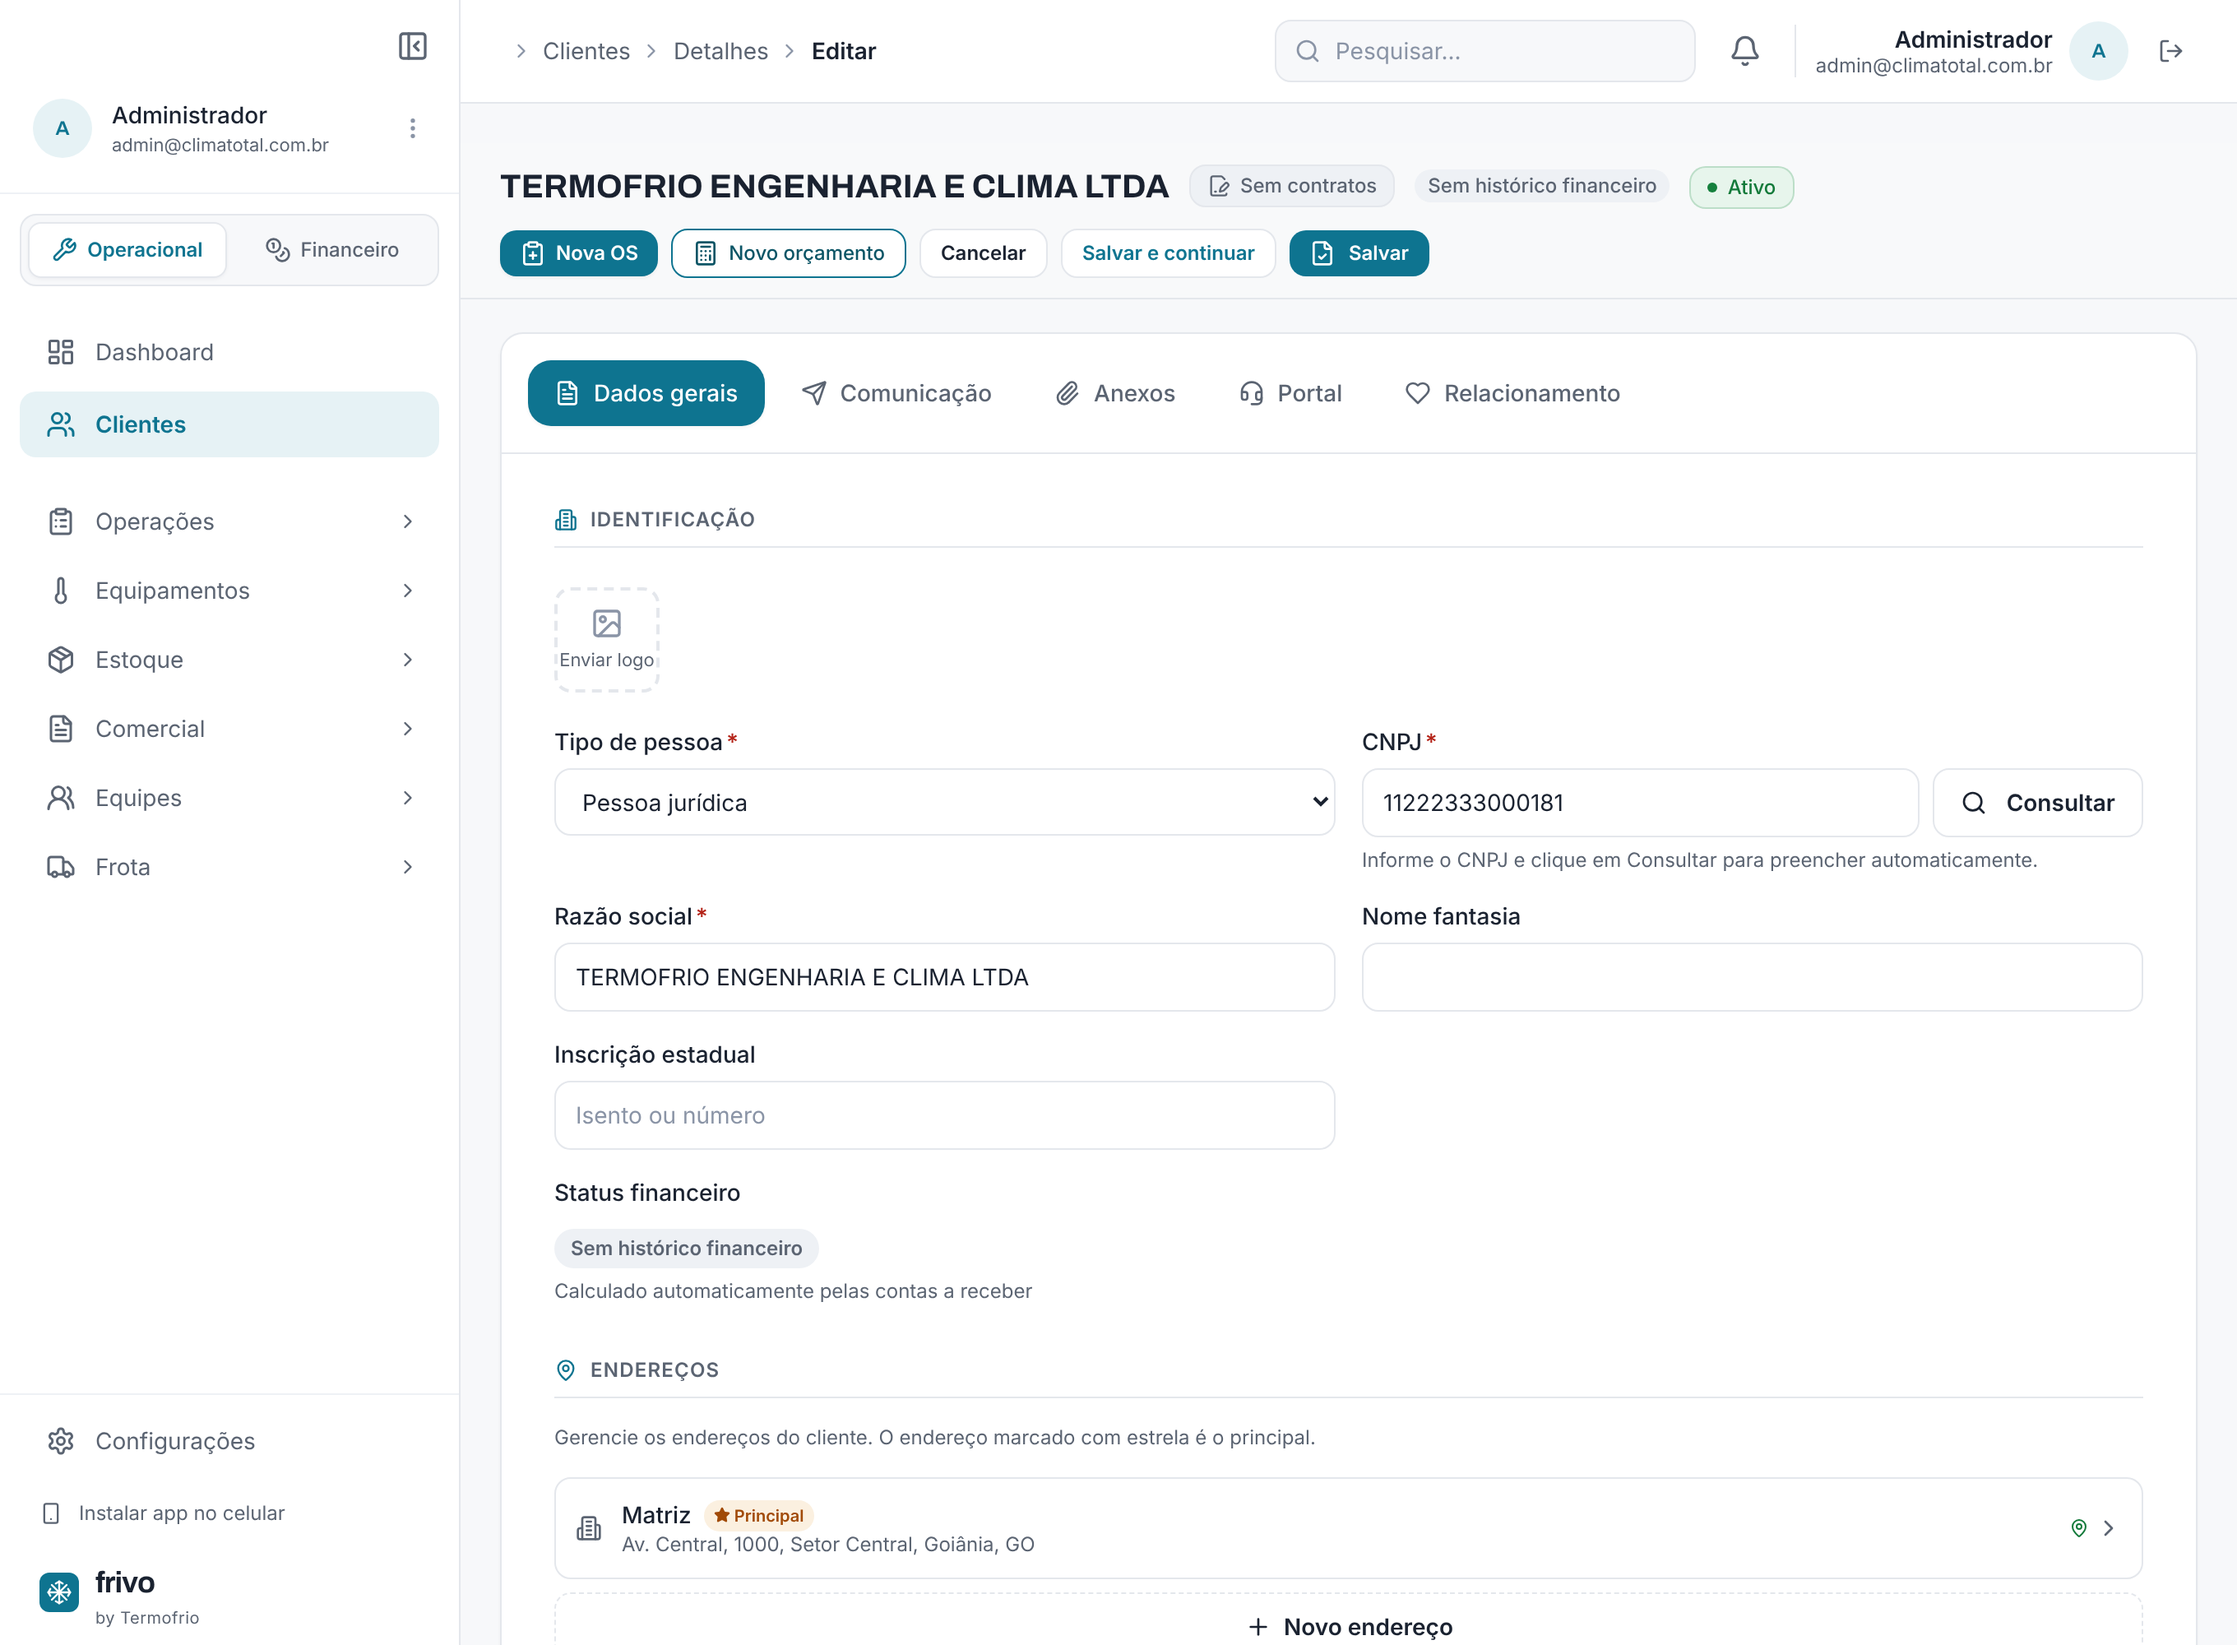
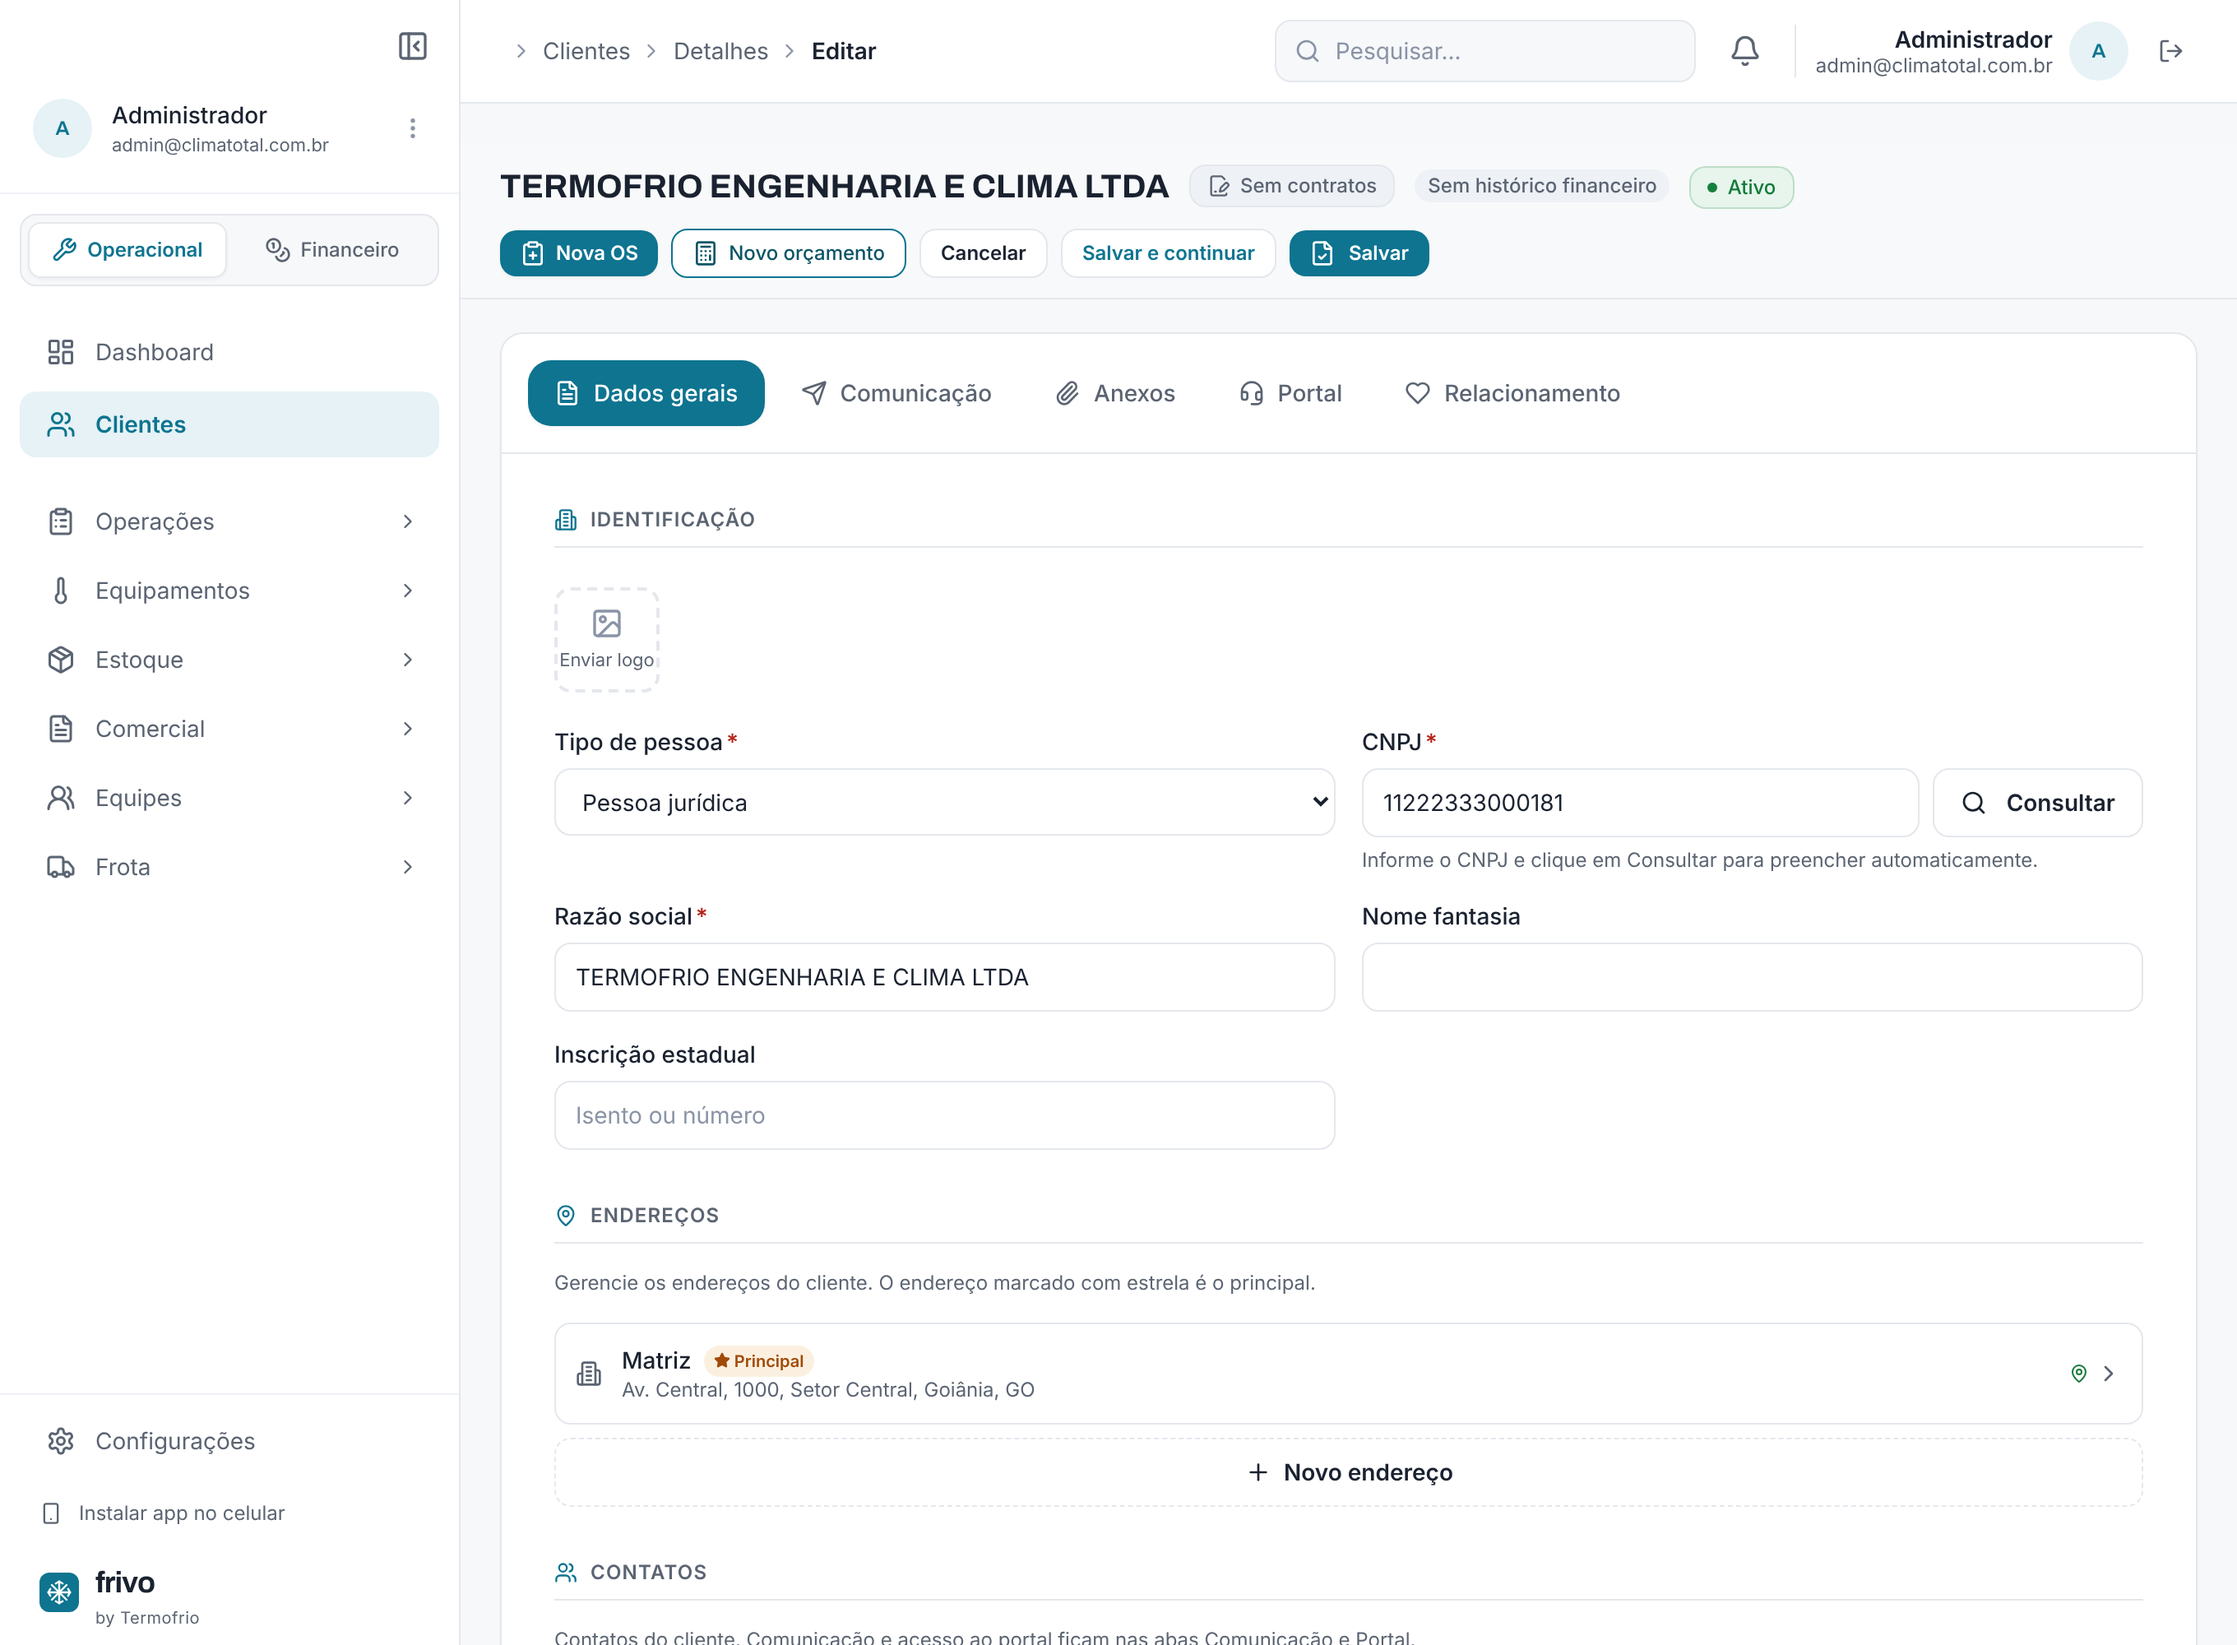
Cliente › Identificação: status financeiro só no topo e aviso de CNPJ discreto
Ajustes finos na aba Dados gerais:
- O status financeiro fica só no cabeçalho (selo ao lado do nome); removida a linha
  repetida no corpo da seção Identificação (e o link "A receber (30 dias)" que vinha junto).
- O aviso "Dados encontrados na Receita Federal" deixou de ser um painel: virou uma linha
  discreta em verde logo acima do campo de CNPJ (data-cnpj-encontrado), sem ocupar espaço.

Sem mudança de schema. Testes: cliente-cnpj-autofill-ui passa a conferir o aviso discreto
(data-cnpj-encontrado, sem o painel antigo) e que o status financeiro não se repete no corpo;
ratchet, ux2-cliente e a suíte completa (PG real) verdes.

Claude-Session: https://claude.ai/code/session_01NogQSnn1DhMU16avoGcmWJ

Changed region(s): [[0.25, 0.713, 0.6562, 0.961], [0.25, 0.961, 0.6562, 1.0]]

diff --git a/components/forms/cliente-form.tsx b/components/forms/cliente-form.tsx
@@ -26,7 +26,6 @@ import { PortalContatos } from "@/components/forms/portal-contatos";
 import { InteracoesManager } from "@/components/forms/interacoes-manager";
 import { ToggleSwitch } from "@/components/ui/toggle-switch";
 import { usePermissoes } from "@/components/providers/permissoes-provider";
-import { formatarMoeda } from "@/lib/utils";
 import { cn } from "@/lib/utils";
 import {
   LABELS_STATUS_FINANCEIRO_CALC, COR_STATUS_FINANCEIRO_CALC, type StatusFinanceiroCalc,
@@ -36,9 +35,9 @@ import { SeletorCadastro, useCadastro } from "@/components/cadastros/seletor-cad
 import type { Cliente, Tecnico, Unidade, Configuracao, ContatoCliente } from "@prisma/client";
 import type { ContatoSeguro } from "@/lib/contato-cliente";
 import {
-  Search, Loader2, FileCheck, Lock, Pencil, X, AlertCircle,
+  Search, Loader2, FileCheck, Lock, Pencil, AlertCircle,
   FileText, MapPin, Heart, Headset,
-  Building2, DollarSign, Users, Paperclip, Star, MessageSquare, Globe, ArrowUpRight, Send, FileSignature,
+  Building2, DollarSign, Users, Paperclip, Star, MessageSquare, Globe, Send, FileSignature,
   ClipboardPlus, Calculator,
 } from "lucide-react";
 import { AlertaPerdasCliente, type PerdasCliente } from "@/components/financeiro/alerta-perdas-cliente";
@@ -78,7 +77,7 @@ function Painel({ ativo, children }: { ativo: boolean; children: React.ReactNode
   return <div className={cn("space-y-8", !ativo && "hidden")}>{children}</div>;
 }
 
-export function ClienteForm({ initialData, statusFinanceiroCalc, totalProximos30Dias, perdas12m }: ClienteFormProps) {
+export function ClienteForm({ initialData, statusFinanceiroCalc, perdas12m }: ClienteFormProps) {
   const router = useRouter();
   const isEditing = !!initialData;
   // RBAC (o servidor também valida): sem permissão de salvar, a ficha abre somente leitura.
@@ -90,7 +89,6 @@ export function ClienteForm({ initialData, statusFinanceiroCalc, totalProximos30
   const podeNovaOs = pode("ordens", "criar");
   const podeNovoOrcamento = pode("orcamentos", "criar");
   const statusCalc: StatusFinanceiroCalc = statusFinanceiroCalc ?? "SEM_HISTORICO";
-  const totalProx = totalProximos30Dias ?? 0;
   const qtdContratosAtivos = initialData?._count?.contratos ?? 0;
   const [erroGlobal, setErroGlobal] = useState("");
   const [buscandoCnpj, setBuscandoCnpj] = useState(false);
@@ -496,33 +494,27 @@ export function ClienteForm({ initialData, statusFinanceiroCalc, totalProximos30
                 <option value="FISICA">Pessoa física</option>
               </Select>
             </FormField>
-            <FormField label={tipoPessoa === "FISICA" ? "CPF" : "CNPJ"} required error={errors.cpfCnpj?.message} hint={tipoPessoa === "JURIDICA" ? "Informe o CNPJ e clique em Consultar para preencher automaticamente." : undefined}>
-              <div className="flex gap-2">
-                <Input {...register("cpfCnpj")} placeholder={tipoPessoa === "FISICA" ? "000.000.000-00" : "00.000.000/0001-00"} error={!!errors.cpfCnpj} valido={!errors.cpfCnpj && !!cnpjInfo} className="flex-1" />
-                {tipoPessoa === "JURIDICA" && (
-                  <Button type="button" variant="secondary" loading={buscandoCnpj} onClick={buscarCnpj} className="shrink-0">
-                    {!buscandoCnpj && <Search className="w-4 h-4" />}
-                    <span className="hidden sm:inline ml-1">Consultar</span>
-                  </Button>
+            <FormField label={tipoPessoa === "FISICA" ? "CPF" : "CNPJ"} required error={errors.cpfCnpj?.message} hint={tipoPessoa === "JURIDICA" && !cnpjInfo ? "Informe o CNPJ e clique em Consultar para preencher automaticamente." : undefined}>
+              <div>
+                {/* Confirmação discreta da consulta, logo acima do campo (sem o painel antigo) */}
+                {cnpjInfo?.nome && (
+                  <p className="flex items-center gap-1 text-xs text-ok-texto mb-1 animate-in fade-in" data-cnpj-encontrado>
+                    <FileCheck className="w-3.5 h-3.5 shrink-0" />
+                    <span className="truncate">Receita Federal: {cnpjInfo.nome}{(cnpjInfo.cidade || cnpjInfo.estado) ? ` — ${[cnpjInfo.cidade, cnpjInfo.estado].filter(Boolean).join("/")}` : ""}</span>
+                  </p>
                 )}
+                <div className="flex gap-2">
+                  <Input {...register("cpfCnpj")} placeholder={tipoPessoa === "FISICA" ? "000.000.000-00" : "00.000.000/0001-00"} error={!!errors.cpfCnpj} valido={!errors.cpfCnpj && !!cnpjInfo} className="flex-1" />
+                  {tipoPessoa === "JURIDICA" && (
+                    <Button type="button" variant="secondary" loading={buscandoCnpj} onClick={buscarCnpj} className="shrink-0">
+                      {!buscandoCnpj && <Search className="w-4 h-4" />}
+                      <span className="hidden sm:inline ml-1">Consultar</span>
+                    </Button>
+                  )}
+                </div>
               </div>
             </FormField>
           </FormGrid>
-          {cnpjInfo && cnpjInfo.nome && (
-            <div className="flex items-start gap-3 bg-surface-alt border border-surface-border rounded-card px-4 py-3 animate-in fade-in">
-              <FileCheck className="w-5 h-5 text-ok-texto shrink-0 mt-0.5" />
-              <div className="text-sm min-w-0">
-                <p className="font-medium text-ink">Dados encontrados na Receita Federal</p>
-                <p className="text-ink-muted truncate">
-                  {cnpjInfo.nome}
-                  {(cnpjInfo.cidade || cnpjInfo.estado) && ` — ${[cnpjInfo.cidade, cnpjInfo.estado].filter(Boolean).join("/")}`}
-                </p>
-              </div>
-              <button type="button" onClick={() => setCnpjInfo(null)} className="ml-auto text-success-600 hover:text-success-800 shrink-0">
-                <X className="w-4 h-4" />
-              </button>
-            </div>
-          )}
           <FormGrid>
             <FormField label={tipoPessoa === "FISICA" ? "Nome completo" : "Razão social"} required error={errors.nome?.message}>
               <div className="relative">
@@ -546,24 +538,7 @@ export function ClienteForm({ initialData, statusFinanceiroCalc, totalProximos30
               <FormField label="Inscrição estadual"><Input {...register("inscricaoEstadual")} placeholder="Isento ou número" /></FormField>
             </FormGrid>
           )}
-          <FormGrid>
-            <FormField label="Status financeiro" hint="Calculado automaticamente pelas contas a receber">
-              <div className="flex flex-col gap-1.5 pt-1.5">
-                <span className={cn("inline-flex w-fit items-center text-xs font-semibold px-2.5 py-1 rounded-full", COR_STATUS_FINANCEIRO_CALC[statusCalc])}>
-                  {LABELS_STATUS_FINANCEIRO_CALC[statusCalc]}
-                </span>
-                {isEditing && statusCalc !== "SEM_HISTORICO" && totalProx > 0 && (
-                  <Link
-                    href={`/financeiro/contas-receber?clienteId=${initialData!.id}&periodo=todos`}
-                    className="inline-flex w-fit items-center gap-1 text-xs text-ink-muted hover:text-primary-600 transition-colors"
-                  >
-                    A receber (30 dias): {formatarMoeda(totalProx)}
-                    <ArrowUpRight className="w-3 h-3" />
-                  </Link>
-                )}
-              </div>
-            </FormField>
-          </FormGrid>
+          {/* Status financeiro fica só no cabeçalho (selo ao lado do nome) — não repete aqui embaixo. */}
         </FormSection>
 
         {/* Endereços — logo abaixo da identificação (o Consultar preenche os dois juntos) */}

diff --git a/tests/unit/cliente-cnpj-autofill-ui.test.ts b/tests/unit/cliente-cnpj-autofill-ui.test.ts
@@ -79,6 +79,11 @@ describe("Autofill do CNPJ no cliente novo", () => {
     const botaoContato = $$("button").find((b) => b.textContent === "Termofrio Engenharia Ltda" || /Termofrio Engenharia Ltda/.test(b.textContent ?? ""));
     // o e-mail está no estado do contato; o card colapsado mostra o nome + selo Principal
     expect(botaoContato).toBeTruthy();
+    // aviso da Receita Federal agora é discreto (junto ao CNPJ), sem o painel antigo
+    expect(caixa.querySelector("[data-cnpj-encontrado]")).toBeTruthy();
+    expect(corpo).not.toContain("Dados encontrados na Receita Federal");
+    // status financeiro só no cabeçalho — não repete numa seção de Dados gerais
+    expect(corpo).not.toContain("Calculado automaticamente pelas contas a receber");
   });
 
   it("não duplica: consultar duas vezes não cria endereço/contato repetidos", async () => {

diff --git a/docs/cliente-dados-gerais.md b/docs/cliente-dados-gerais.md
@@ -39,6 +39,12 @@ Quatro seções (`FormSection`, cabeçalho em maiúsculas com ícone), nesta ord
 A logo ganhou uma variante `compacto` (preview menor, dica inline) para caber ao lado dos dados
 básicos sem poluir.
 
+Afinação da seção Identificação:
+- O **status financeiro** fica **só no cabeçalho** (selo ao lado do nome) — não se repete numa
+  linha no corpo da seção.
+- O aviso **"Dados encontrados na Receita Federal"** deixou de ser um painel: virou uma linha
+  **discreta em verde** logo **acima** do campo de CNPJ (`data-cnpj-encontrado`), sem ocupar espaço.
+
 ## Testes
 
 - `autofill-cnpj` (função pura): cria principal quando vazio; preenche só os vazios quando já existe
